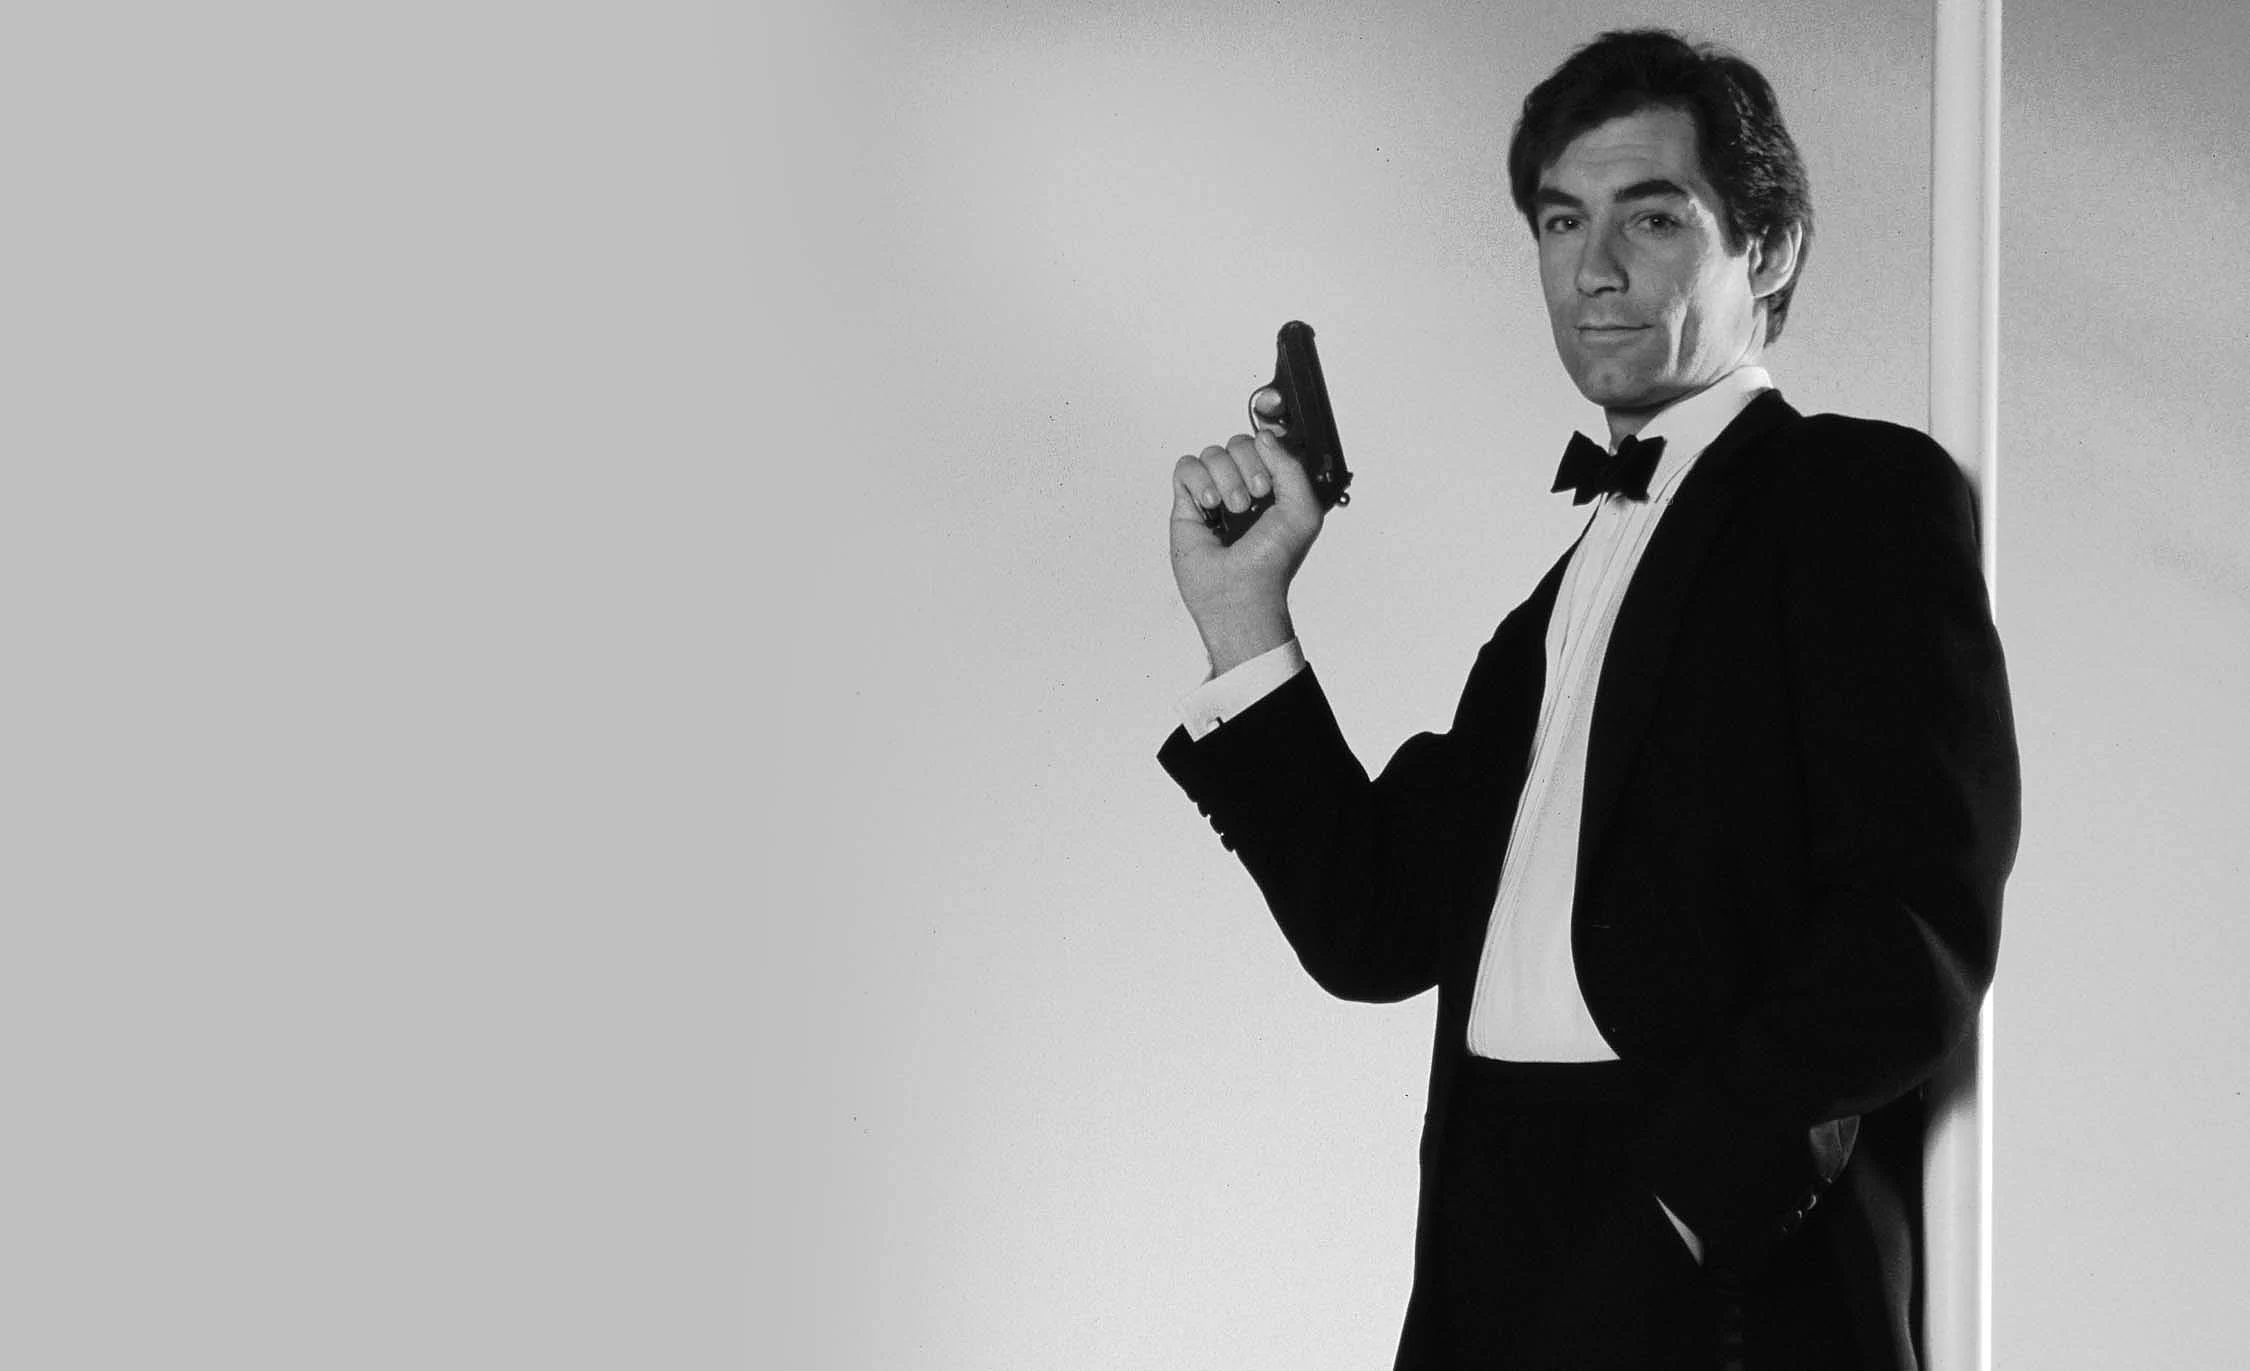
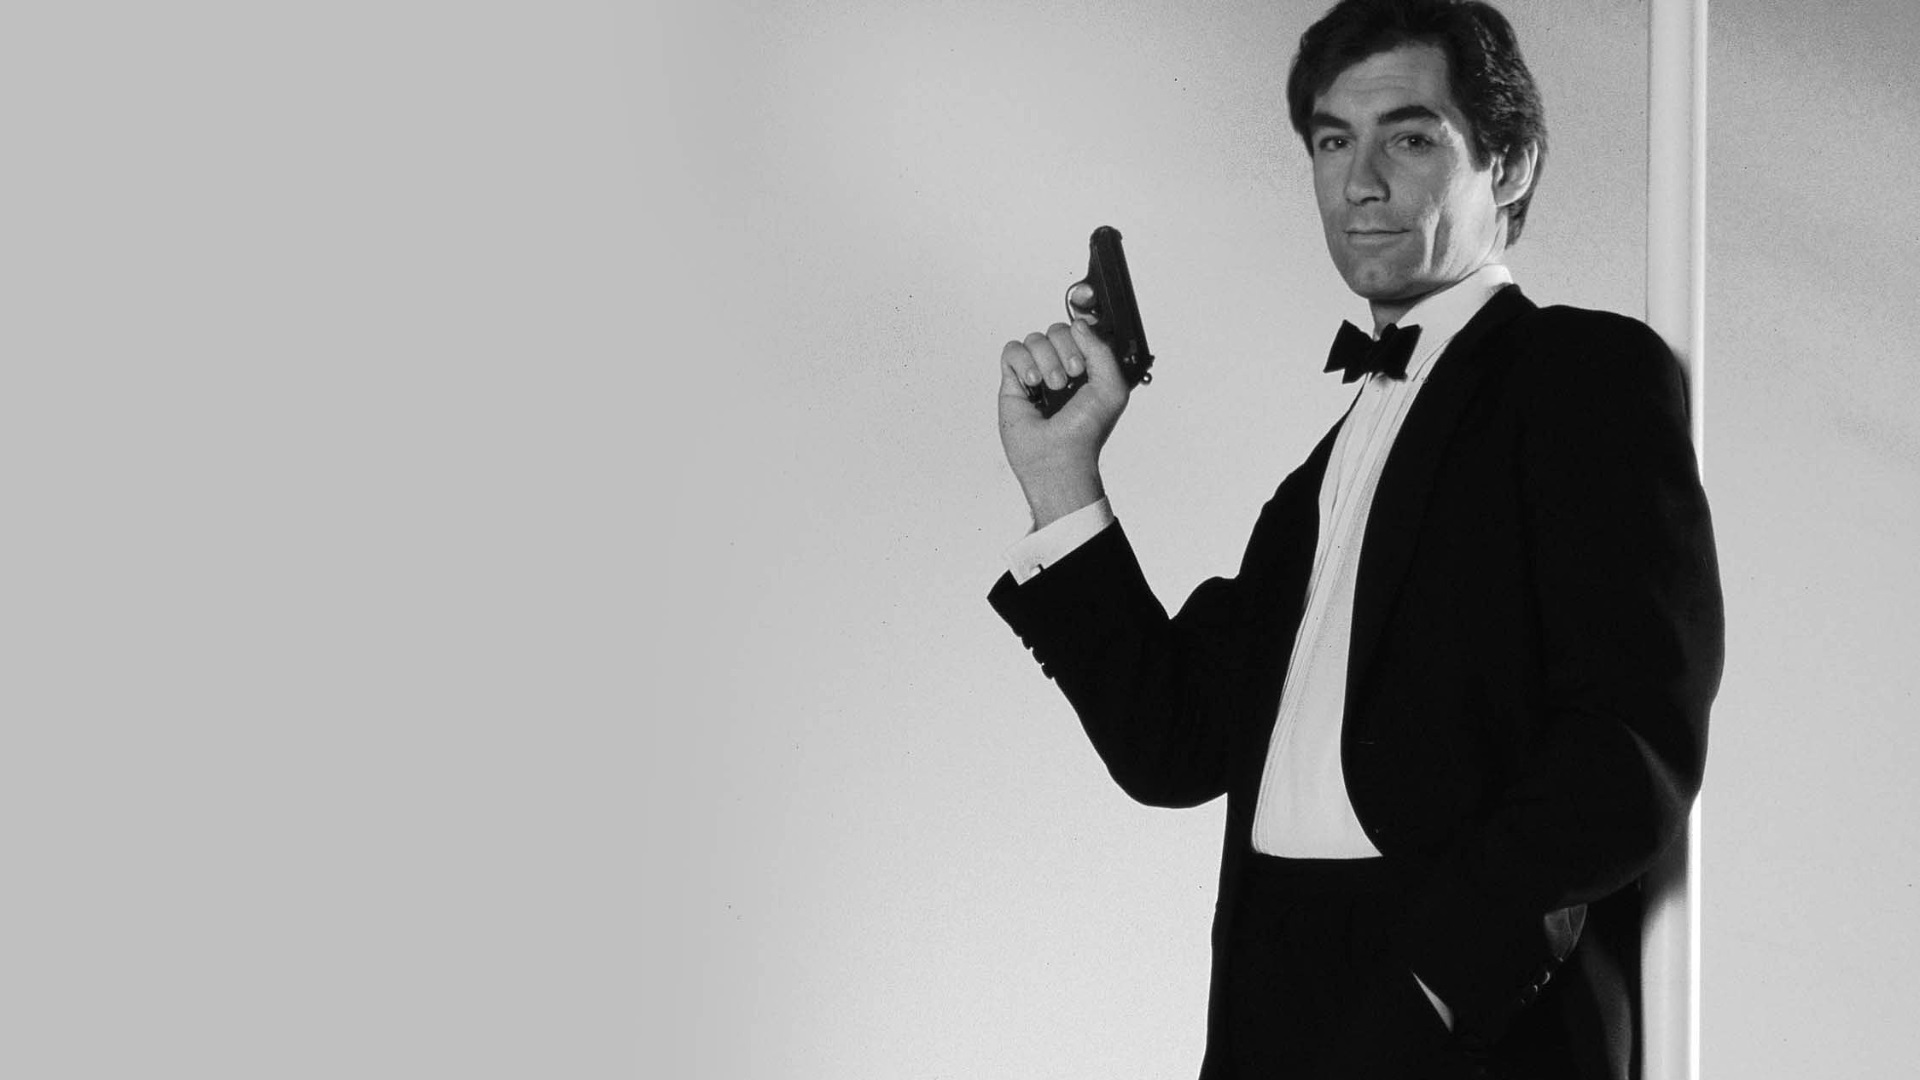
feat: style content for desktop ux
Backgrounds were all set to high-resolutions versions to prevent pixelation.

diff --git a/assets/css/style.css b/assets/css/style.css
@@ -317,7 +317,7 @@ div.socials * {
   /* Transparency Effects for Bond Backgrounds */
 
   .transparency {
-    opacity: 0.95;
+    opacity: 0.85;
   }
 
   /* Bond Backgrounds */
@@ -342,7 +342,7 @@ div.socials * {
 
   .background-rm {
     background: var(--grey) url("../images/background-rm.jpg")
-    no-repeat right;
+    no-repeat top right;
     background-size: cover;
   }
 
@@ -354,8 +354,40 @@ div.socials * {
 
   .background-td {
     background: var(--grey) url("../images/background-td.jpg")
-    no-repeat center;
+    no-repeat top right;
     background-size: cover;
+  }
+
+  /* Content containers */
+
+  .difficulty-container,
+  .game-container,
+  .home-container,
+  .scores-container,
+  .score-screen {
+    min-width: 40vw;
+    max-width: 40vw;
+  }
+
+  .game-container {
+    padding: 3rem;
+  }
+
+  .game-container button {
+    font-size: 1rem;
+  }
+
+  /* Modal */
+
+  .howto-modal {
+    font-size: 1rem;
+    min-width: 50vw;
+    max-width: 50vw;
+  }
+
+  .howto-modal h2,
+  .howto-modal p {
+    padding: 1.2rem;
   }
 
   /* Pseudo Elements */

diff --git a/game_easy.html b/game_easy.html
@@ -30,7 +30,7 @@
       <h1>License to Quiz</h1>
     </a>
   </header>
-  <div class="background background-sc">
+  <div class="background background-dc">
     <!-- This div holds the game's content. It has been styled with CSS grid areas -->
     <div class="game-container transparency">
       <div class="counter"><h2>Question <span id="question-number">1</span>/<span id="question-of">5</span></h2></div>

diff --git a/assets/js/game_easy.js b/assets/js/game_easy.js
@@ -210,7 +210,7 @@ let app = {
   showScoreScreen: function () {
     // Create var for score screen div
     let scoreScreen = `
-      <div class="score-screen text-center">
+      <div class="score-screen text-center transparency">
         <h2>Mission Over!</h2>
         <p>Your final score was ${this.currentScore}!</p>
         <a href="game_select.html" class="button link-default-reset">

diff --git a/assets/js/game_hard.js b/assets/js/game_hard.js
@@ -235,7 +235,7 @@ let app = {
   showScoreScreen: function () {
     // Create var for score screen div
     let scoreScreen = `
-      <div class="score-screen text-center">
+      <div class="score-screen text-center transparency">
         <h2>Mission Over!</h2>
         <p>Your final score was ${this.currentScore}!</p>
         <a href="game_select.html" class="button link-default-reset">

diff --git a/assets/js/game_medium.js b/assets/js/game_medium.js
@@ -233,7 +233,7 @@ let app = {
   showScoreScreen: function () {
     // Create var for score screen div
     let scoreScreen = `
-      <div class="score-screen text-center">
+      <div class="score-screen text-center transparency">
         <h2>Mission Over!</h2>
         <p>Your final score was ${this.currentScore}!</p>
         <a href="game_select.html" class="button link-default-reset">
